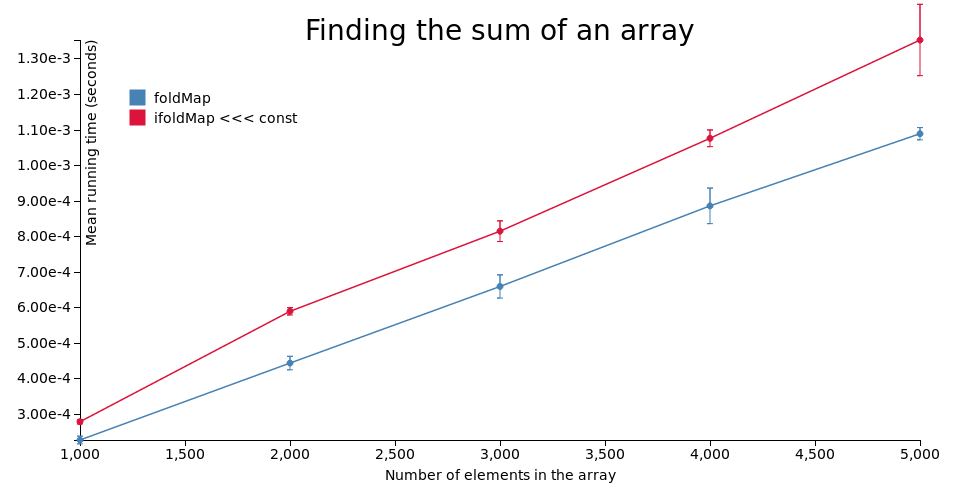
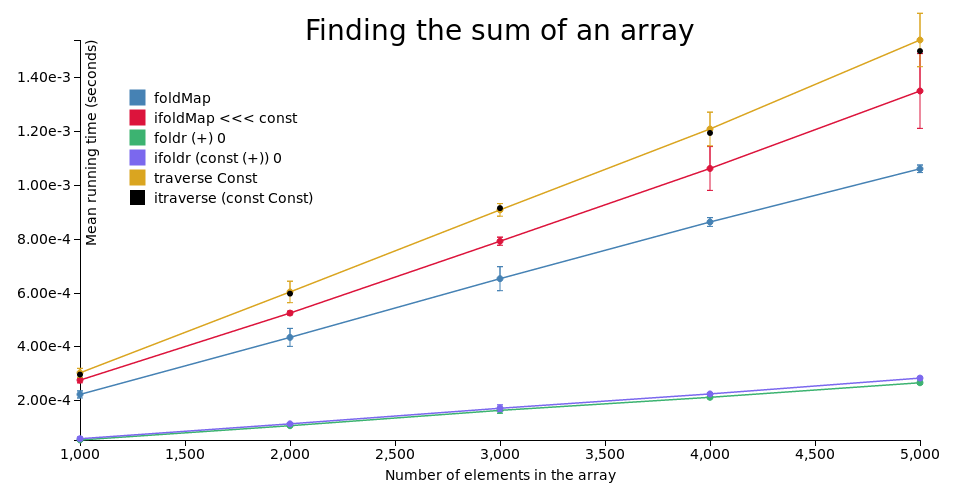
Add more benchmarks

diff --git a/README.md b/README.md
@@ -1,9 +1,15 @@
-# Benchmarks `foldMap` vs `ifoldMap <<< const`.
+Benchmarks different implementions of `foldMap` and `ifoldMap`.
 
+`foldMap`, `ifoldMap`, `traverse` and `itraverse` all have separate FFI
+implementations here.
 
 ```bash
 > npm install && bower install
 > pulp build --optimise --to main.js && node main.js
 ```
 
-![Benchmark](results/sum.png?raw=True)
+## `foldMap`
+![foldMap Benchmarks](results/sum.png?raw=True)
+
+## `ifoldMap`
+![ifoldMap Benchmarks](results/indexed-sum.png?raw=True)
